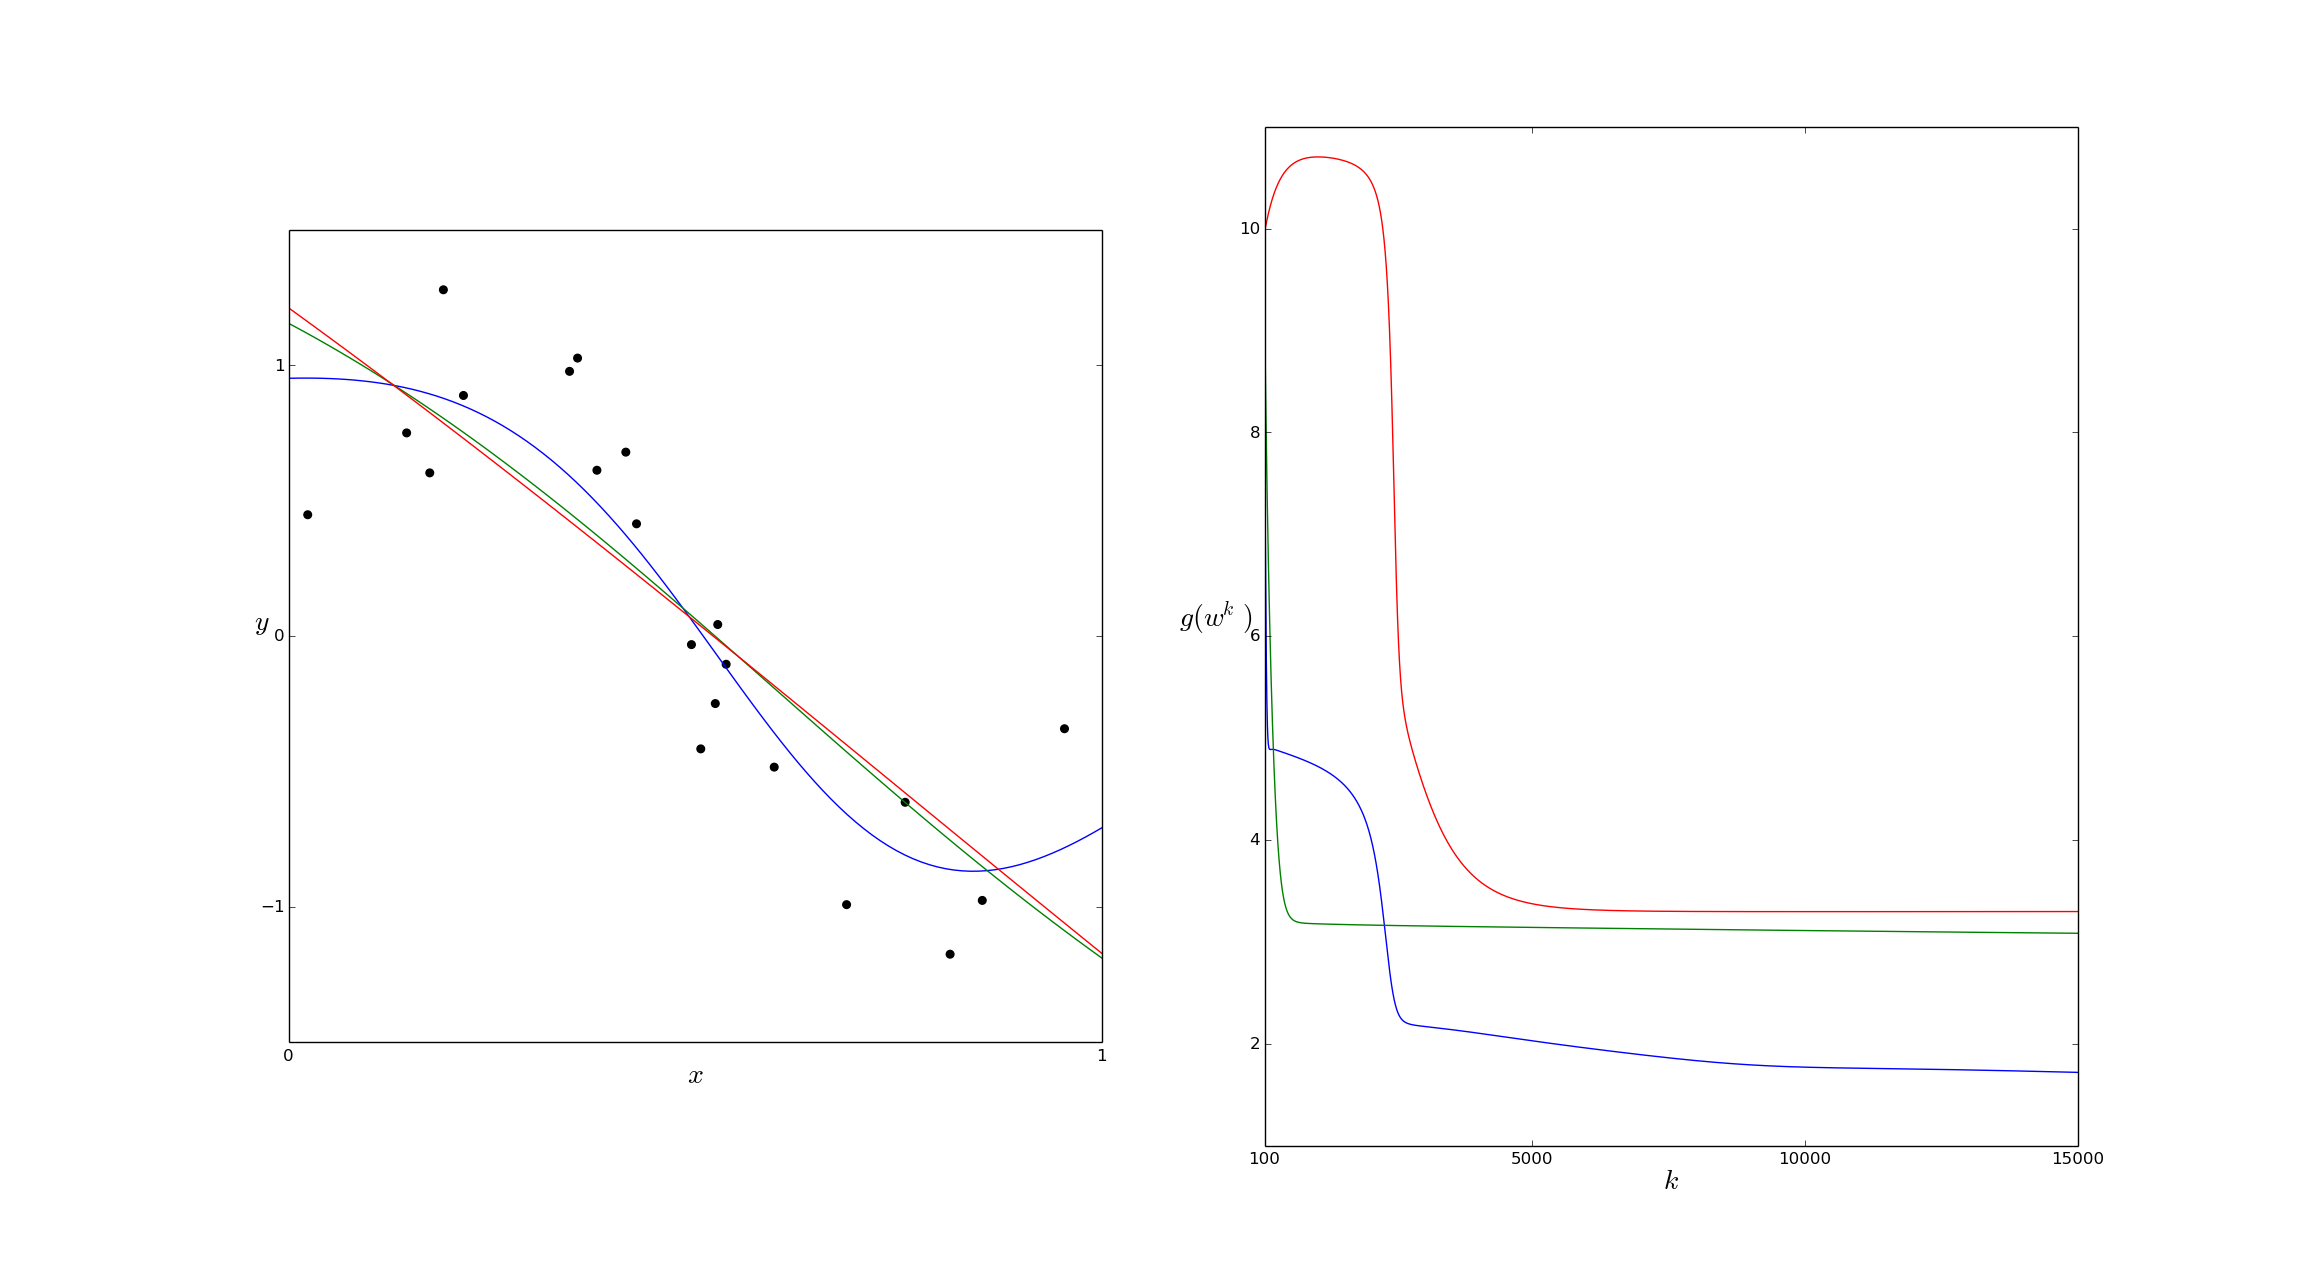
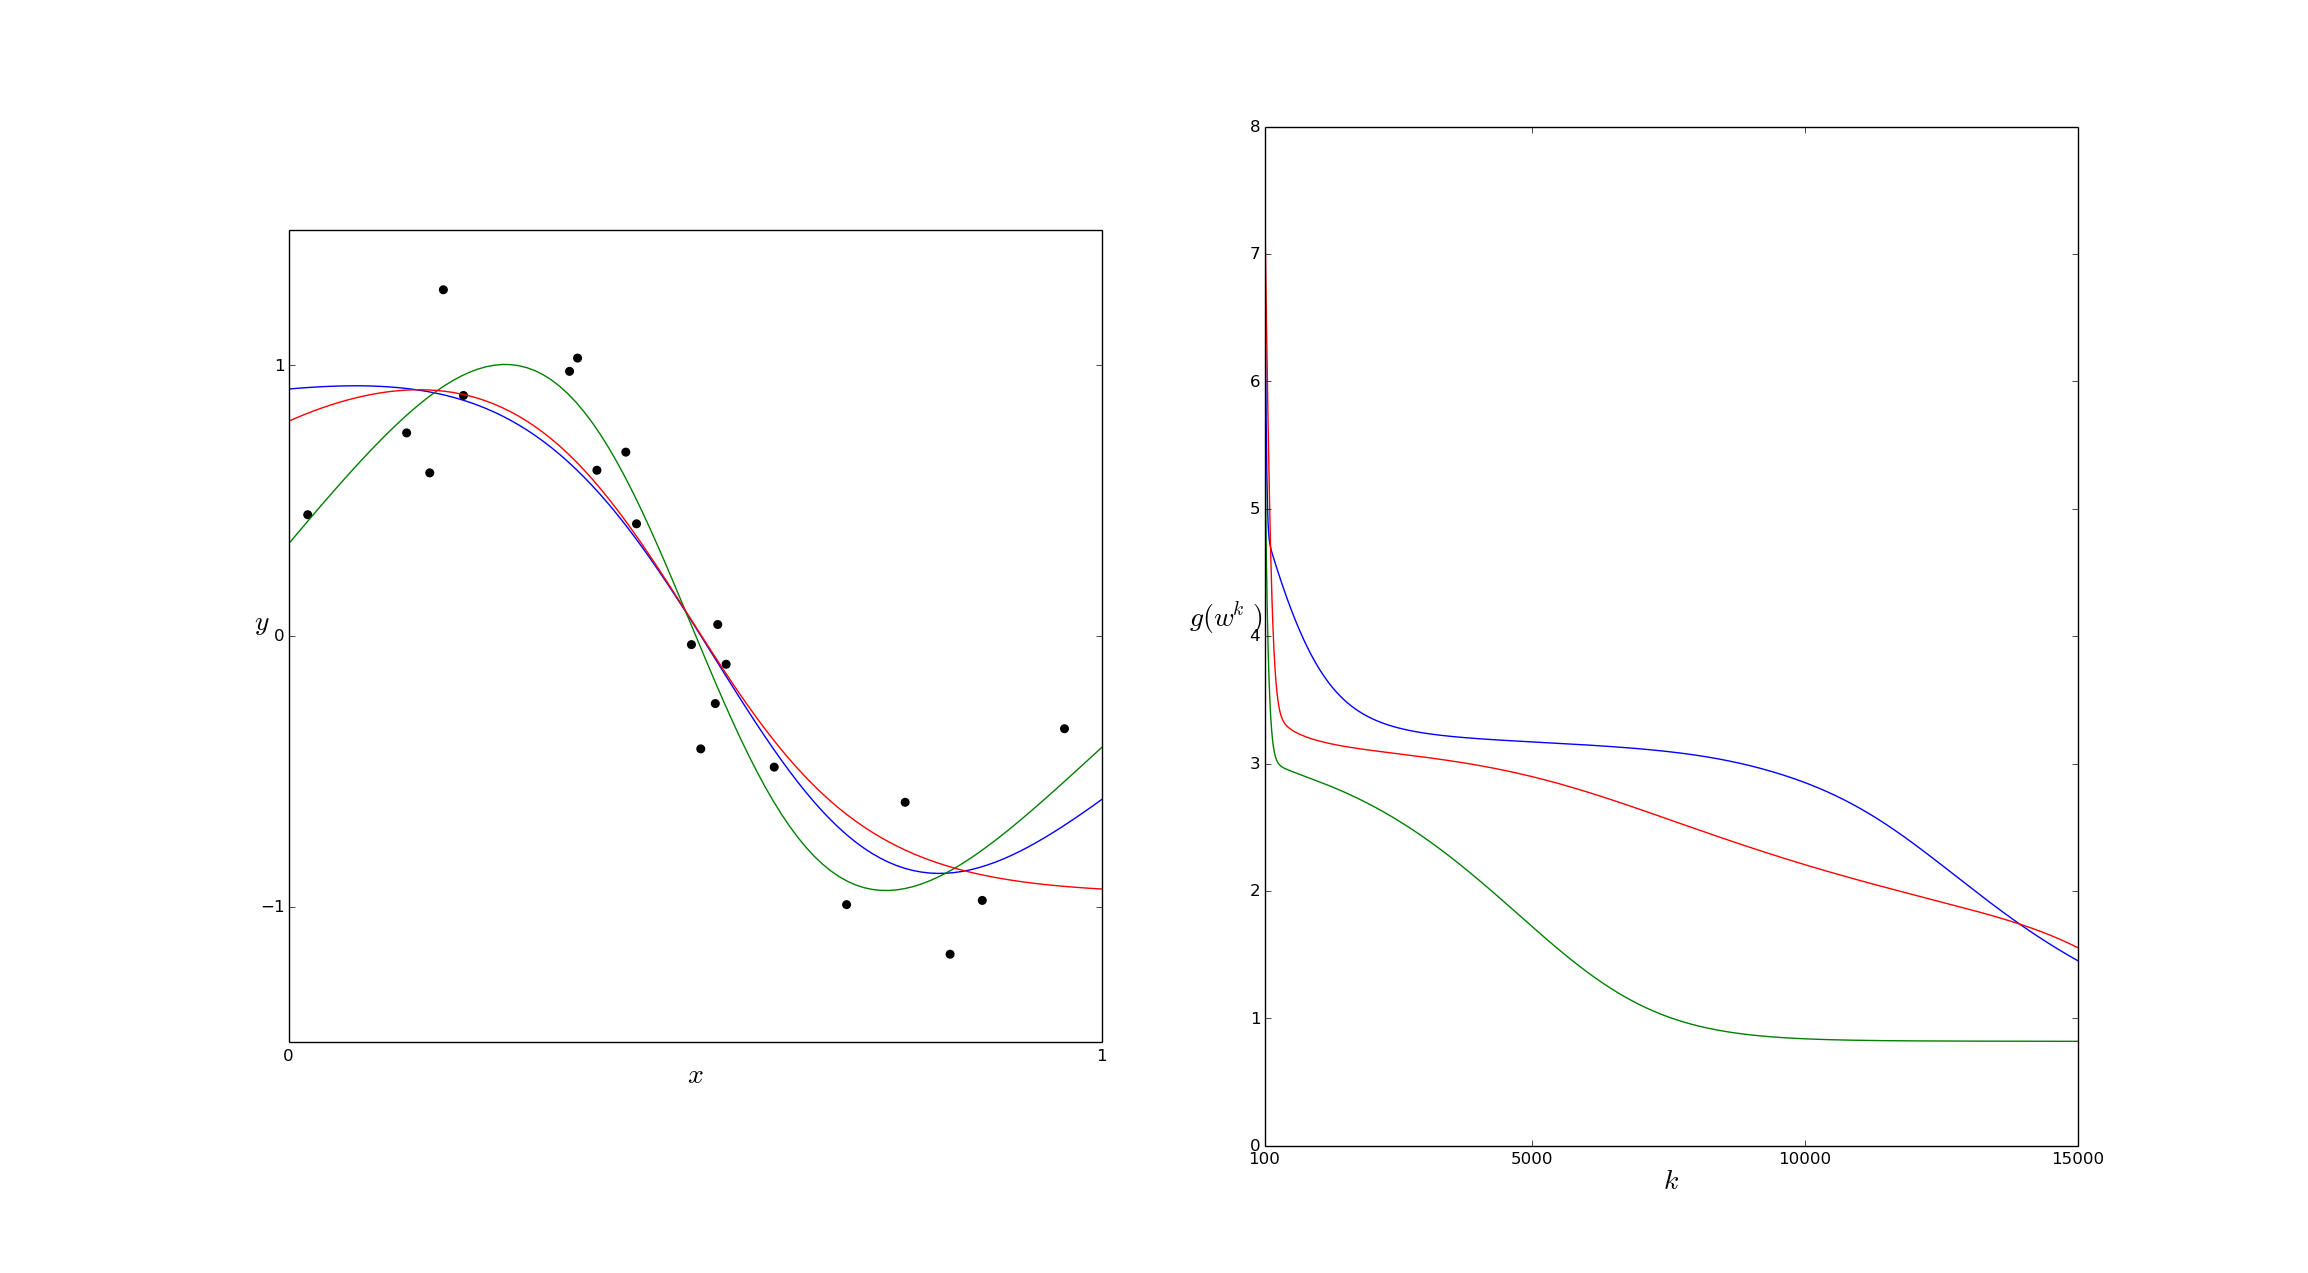
hw5 proper done

diff --git a/hw5/tanh_regression_exercise/tanh_regression_hw.py b/hw5/tanh_regression_exercise/tanh_regression_hw.py
@@ -85,10 +85,10 @@ def tanh_grad_descent(x,y,i):
             t2.append(tanh(c[1][0] + xp*v[1][0]))
             t3.append(tanh(c[2][0] + xp*v[2][0]))
             t4.append(tanh(c[3][0] + xp*v[3][0]))
-            s1.append((cosh(c[0][0] + xp*v[0][0]))**-2)
-            s2.append((cosh(c[1][0] + xp*v[1][0]))**-2)
-            s3.append((cosh(c[2][0] + xp*v[2][0]))**-2)
-            s4.append((cosh(c[3][0] + xp*v[3][0]))**-2)
+            s1.append((cosh(c[0][0] + xp*v[0][0]))**(-2))
+            s2.append((cosh(c[1][0] + xp*v[1][0]))**(-2))
+            s3.append((cosh(c[2][0] + xp*v[2][0]))**(-2))
+            s4.append((cosh(c[3][0] + xp*v[3][0]))**(-2))
 
         q = asarray(q).reshape(P,1)
         t1 = asarray(t1).reshape(P,1)
@@ -121,7 +121,7 @@ def tanh_grad_descent(x,y,i):
         grad_v3 = 2*dot(l_p.T, q*x*s3)*w[2][0]
         grad_v4 = 2*dot(l_p.T, q*x*s4)*w[3][0]
 
-        grad_v = vstack((grad_c1[0], grad_c2[0], grad_c3[0], grad_c4[0]))
+        grad_v = vstack((grad_v1[0], grad_v2[0], grad_v3[0], grad_v4[0]))
 
 
         # take gradient steps
